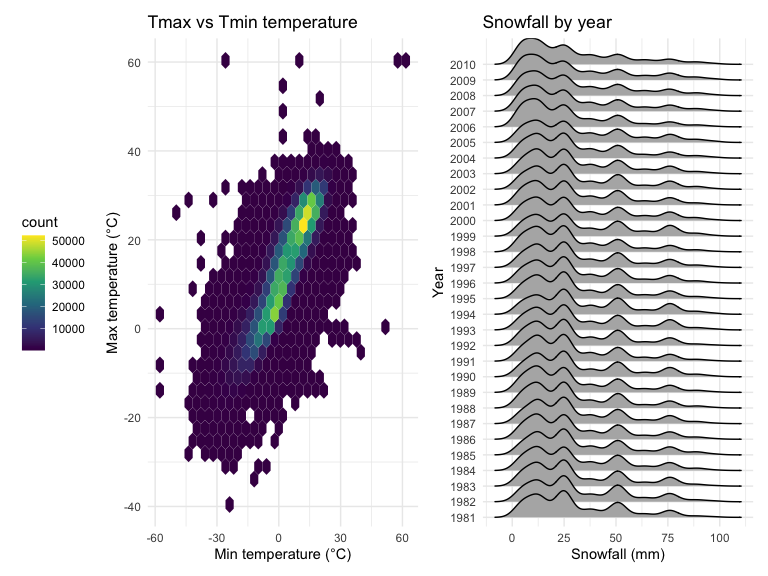
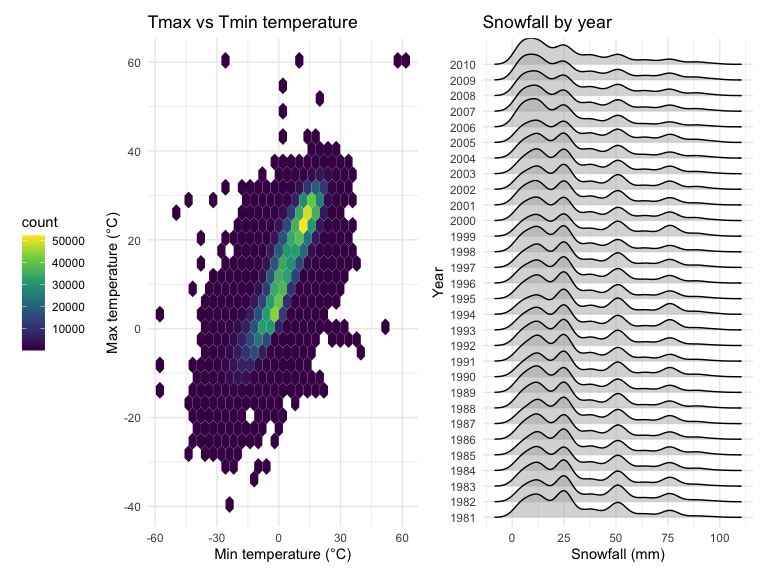
Problem 3 Drop extra comments

Changed region(s): [[0.6562, 0.0625, 0.9062, 0.9062]]

diff --git a/p8105_hw3_zz2900.md b/p8105_hw3_zz2900.md
@@ -321,7 +321,7 @@ p_snowfall =
   filter(snow > 0 & snow < 100) %>% 
   group_by(year) %>%
   ggplot(aes(x = snow, y = year)) +
-  geom_density_ridges() +
+  geom_density_ridges(alpha = 0.5) +
   labs(
     title = "Snowfall by year", 
     x = "Snowfall (mm)", 
@@ -330,7 +330,6 @@ p_snowfall =
     breaks = c(0,25,50,75,100)) +
   scale_y_discrete(
     position = "left") +
-  theme(legend.position = "left") +
   viridis::scale_fill_viridis() 
 
 p_tmax_tmin + p_snowfall
